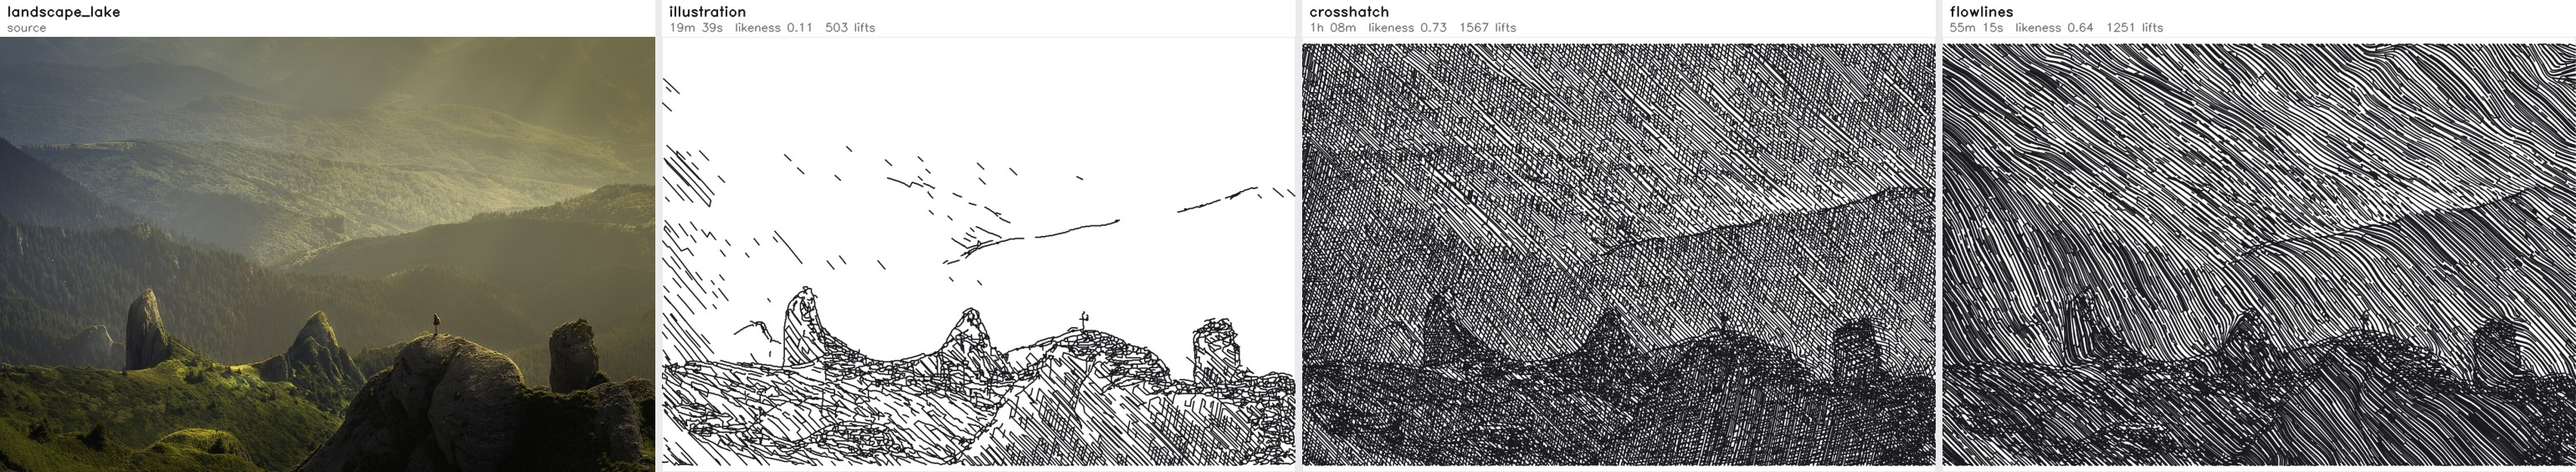
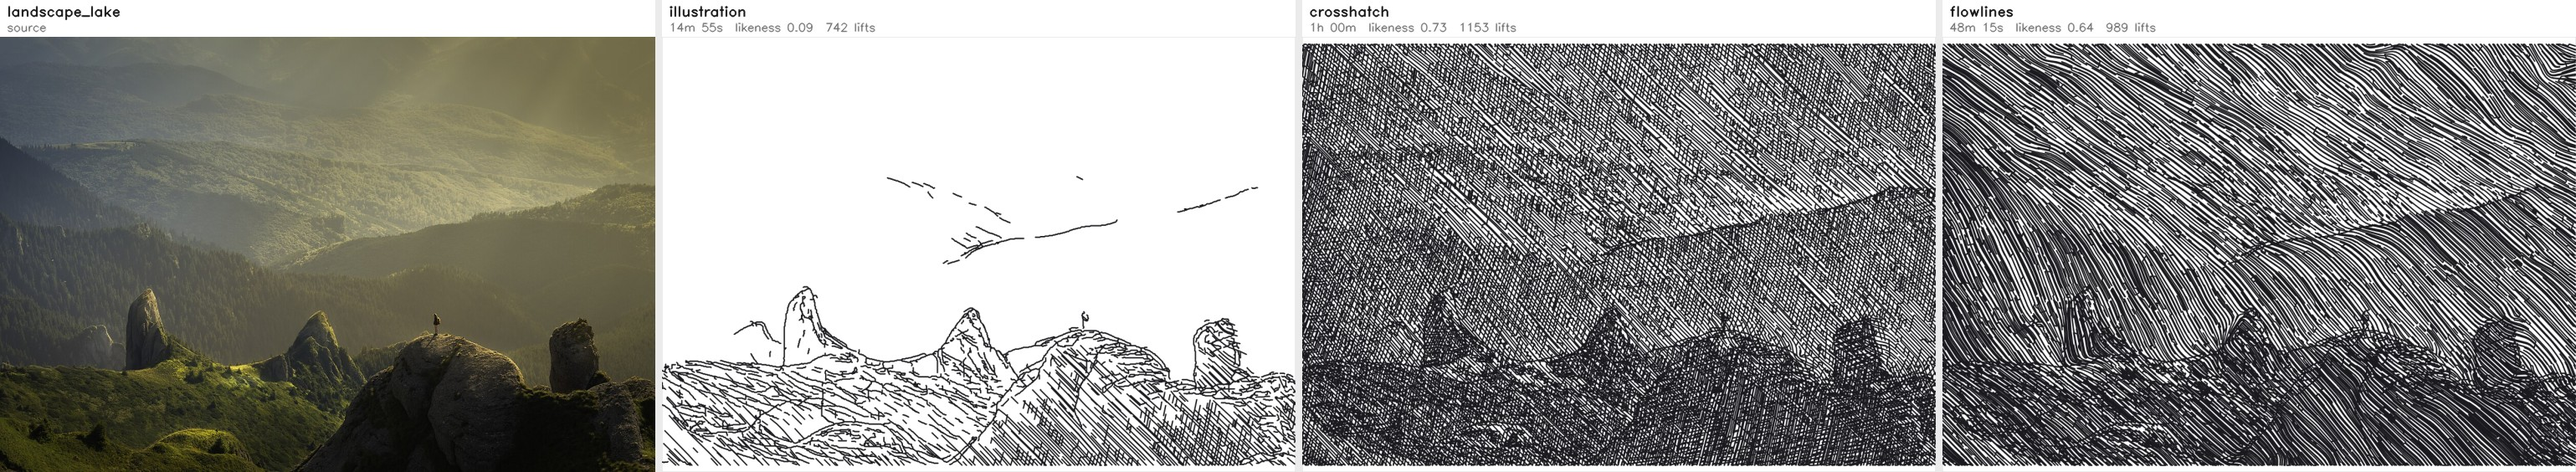
Clean up faces: bridge only over drawn ink, trace lines without loops, focus on the subject
- Pen-down bridges were judged against the photo's tone, but illustration
  hatches only shadows, so bridges over mid-tones drew zigzags across faces.
  They are now judged against the ink actually drawn.
- Pinholes in the line network's thick marks are filled before thinning
  (no more bead-chain eyelids), and the line threshold rises where marks
  crowd into solid patches (beard strands instead of a honeycomb).
- Subject focus defaults to 0.85: with Depth Anything the subject mask is
  sharp, and background hatching no longer buries a close-up face.

diff --git a/plotter/engines/outline.py b/plotter/engines/outline.py
@@ -13,6 +13,12 @@ from __future__ import annotations
 import cv2
 import numpy as np
 
+#: Gaps inside a stroke smaller than this (mm^2 on paper) are filled before
+#: thinning; the pen is 0.4 mm, so nothing this small can be drawn as a gap.
+HOLE_MM2 = 0.5
+#: How far the line threshold rises where marks crowd into a solid patch.
+CROWD_GAIN = 0.4
+
 # 8-neighbourhood, ordered so opposite directions are 4 apart.
 _NEIGHBOURS = ((-1, -1), (-1, 0), (-1, 1), (0, 1),
                (1, 1), (1, 0), (1, -1), (0, -1))
@@ -52,6 +58,23 @@ def skeleton(mask: np.ndarray) -> np.ndarray:
         if not changed:
             break
     return img
+
+
+def fill_holes(mask: np.ndarray, max_area: float) -> np.ndarray:
+    """Close pinholes in a stroke mask before thinning.
+
+    A thick stroke from the line network is rarely solid once thresholded:
+    a few pixels inside it fall just under the cut.  Thinning wraps around
+    every such pinhole, so the centreline comes out as a chain of tiny loops
+    - beads along every eyelid - and dense marks like a beard become a mesh.
+    """
+    inv = (mask == 0).astype(np.uint8)
+    n, labels, stats, _ = cv2.connectedComponentsWithStats(inv, connectivity=4)
+    small = stats[:, cv2.CC_STAT_AREA] <= max_area
+    small[0] = False if stats[0, cv2.CC_STAT_AREA] > max_area else small[0]
+    out = mask.copy()
+    out[small[labels] & (inv > 0)] = 255
+    return out
 
 
 def trace(skel: np.ndarray, min_px: int = 6) -> list[np.ndarray]:
@@ -158,7 +181,14 @@ def generate(value, coverage, canvas, pen, cfg, strength: float | None = None,
             np.dstack([value] * 3) * 255).astype(np.uint8)
         dark = learned_lines.draw(rgb, (value.shape[1], value.shape[0]),
                                   style=getattr(cfg, "line_style", "contour"))
-        mask = dark > (0.62 - 0.42 * s)
+        cut = 0.62 - 0.42 * s
+        # Where the network's marks crowd together - a beard, curls, dense
+        # shadow - the thresholded mask turns solid, and the centreline of a
+        # solid patch is a honeycomb, not hair.  Raising the cut there keeps
+        # only the strongest strands; the shading layer carries the tone.
+        crowd = cv2.GaussianBlur((dark > cut).astype(np.float32), (0, 0),
+                                 max(1.0, 1.5 * px_per_mm))
+        mask = dark > cut + CROWD_GAIN * np.clip((crowd - 0.3) / 0.4, 0.0, 1.0)
         weight = dark
         edges = (mask.astype(np.uint8) * 255)
         k = 1.0
@@ -201,6 +231,7 @@ def generate(value, coverage, canvas, pen, cfg, strength: float | None = None,
         # No drawn darkness to go on; how dark the photo is under the line
         # is the nearest stand-in.
         weight = 1.0 - value
+    edges = fill_holes(edges, HOLE_MM2 * (px_per_mm / k) ** 2)
     skel = skeleton(edges)
     paths = trace(skel, min_px=4)
 

diff --git a/plotter/pipeline.py b/plotter/pipeline.py
@@ -5,6 +5,7 @@ from __future__ import annotations
 import time
 from dataclasses import dataclass, field as dc_field, replace
 
+import cv2
 import numpy as np
 
 from . import budget
@@ -133,10 +134,9 @@ def convert(img_rgb: np.ndarray, cfg: Config, progress=None) -> Result:
     scores = [scores[i] for i in keep]
     raw_count = len(mm_paths)
     raw_travel = P.travel_length(mm_paths)   # unordered, unwelded
-    sampler = _ink_sampler(coverage, canvas)
     mm_paths, cut = budget.select(
         mm_paths, scores, cfg,
-        finish=lambda ps: _optimise(ps, cfg, note, sampler),
+        finish=lambda ps: _optimise(ps, cfg, note, _drawn_sampler(ps, canvas, cfg)),
         minutes=cfg.paths.time_limit_min,
         prune_below=cfg.paths.prune_below if ranked else 0.0, note=note)
 
@@ -268,8 +268,28 @@ def draw_procedural(kind: str, seed: int | None = None, cfg: Config | None = Non
                   value=blank, coverage=1.0 - blank, stats=stats)
 
 
+def _drawn_sampler(mm_paths, canvas: Canvas, cfg: Config):
+    """How dark the drawing itself is at machine-millimetre points, for bridging.
+
+    A pen-down bridge is only hidden where the strokes around it are dense.
+    Asking the photo's tone target instead is wrong whenever an engine draws
+    less than the target - illustration hatches only the shadows - and there
+    every bridge over a mid-tone lands on bare paper as a visible zigzag.
+    """
+    if cfg.paths.bridge_max_mm <= 0 or not mm_paths:
+        return None
+    drawn, px_per_mm = quality.render(mm_paths, canvas, cfg.pen.width_mm)
+    drawn = cv2.resize(quality.viewed(drawn, px_per_mm, BRIDGE_SIGMA_MM),
+                       (canvas.w_px, canvas.h_px), interpolation=cv2.INTER_AREA)
+    return _ink_sampler(drawn, canvas)
+
+
+#: Neighbourhood a bridge is judged over: about two hatch spacings in shadow.
+BRIDGE_SIGMA_MM = 0.6
+
+
 def _ink_sampler(coverage: np.ndarray, canvas: Canvas):
-    """Sample the ink target at machine-millimetre points, for bridging."""
+    """Sample a coverage map at machine-millimetre points, for bridging."""
     h, w = coverage.shape
 
     def sample(pts_mm: np.ndarray) -> np.ndarray:

diff --git a/app.py b/app.py
@@ -88,7 +88,7 @@ def config_from_form() -> Config:
     cfg.render.line_style = request.form.get("line_style", "sketch")
     cfg.render.illustration_shading = request.form.get("illustration_shading", "crosshatch")
     cfg.render.illustration_shadow = _f("illustration_shadow", 0.40)
-    cfg.render.illustration_focus = _f("illustration_focus", 0.40)
+    cfg.render.illustration_focus = _f("illustration_focus", 0.85)
     cfg.render.illustration_tone = _f("illustration_tone", 0.75)
     cfg.render.contour_levels = _i("levels", 12)
     cfg.render.tsp_points = _i("points", 12000)
@@ -615,8 +615,8 @@ HTML = r"""
         <div class="ctl" data-for="illustration">
           <label><span>Subject focus
             <span class="tip" title="Uses depth to fade shading on the background so detail goes to the subject. Turn down for landscapes, where everything is far.">i</span></span>
-            <span class="v" id="illustration_focusV">0.40</span></label>
-          <input type="range" id="illustration_focus" min="0" max="1" step="0.05" value="0.40">
+            <span class="v" id="illustration_focusV">0.85</span></label>
+          <input type="range" id="illustration_focus" min="0" max="1" step="0.05" value="0.85">
         </div>
         <div class="ctl" data-for="illustration">
           <label>Shading strength <span class="v" id="illustration_toneV">0.75</span></label>

diff --git a/image_to_gcode.py b/image_to_gcode.py
@@ -73,7 +73,7 @@ def build_parser() -> argparse.ArgumentParser:
                    help="illustration: tone engine under the lines, or 'none'")
     g.add_argument("--shadow", type=float, default=0.40, metavar="F",
                    help="illustration: hatch only tones darker than this")
-    g.add_argument("--focus", type=float, default=0.40, metavar="F",
+    g.add_argument("--focus", type=float, default=0.85, metavar="F",
                    help="illustration: fade shading on the background using depth")
     g.add_argument("--hatch-share", type=float, default=0.30, metavar="F",
                    help="crosshatch: coverage one direction may supply "

diff --git a/plotter/config.py b/plotter/config.py
@@ -198,7 +198,7 @@ class RenderConfig:
     illustration_shadow: float = 0.40
     #: 0 = shade the whole frame evenly, 1 = shade only what depth says is
     #: near.  Needs torch; ignored without it.
-    illustration_focus: float = 0.4
+    illustration_focus: float = 0.85
     #: Shadow-side band on each outlined shape (fishdraw's crescent shading).
     illustration_rim: float = 0.45     # 0 disables; needs torch (depth)
     illustration_rim_mm: float = 6.0   # band width on paper

diff --git a/docs/evaluation/README.md b/docs/evaluation/README.md
@@ -48,21 +48,21 @@ wrong because they were tuned on a single picture.
 
 | photo | engine | plot time | likeness | tone error | lifts | drawn m | compute s |
 |---|---|---|---|---|---|---|---|
-| car_grille | illustration | 25m 04s | 0.233 | 0.399 | 886 | 23.3 | 6.0 |
-| car_grille | crosshatch | 1h 17m | 0.715 | 0.079 | 1906 | 93.2 | 5.1 |
-| car_grille | flowlines | 57m 52s | 0.665 | 0.088 | 1302 | 94.2 | 3.6 |
-| cat_tabby | illustration | 20m 14s | 0.102 | 0.194 | 463 | 13.9 | 2.5 |
-| cat_tabby | crosshatch | 1h 00m | 0.679 | 0.059 | 2561 | 53.0 | 3.3 |
-| cat_tabby | flowlines | 57m 56s | 0.653 | 0.061 | 2521 | 53.0 | 3.2 |
-| dog_ottawa | illustration | 19m 11s | 0.136 | 0.381 | 495 | 14.8 | 2.4 |
-| dog_ottawa | crosshatch | 59m 23s | 0.740 | 0.075 | 1324 | 75.1 | 3.8 |
-| dog_ottawa | flowlines | 53m 52s | 0.680 | 0.079 | 1285 | 75.6 | 3.6 |
-| landscape_lake | illustration | 19m 39s | 0.109 | 0.464 | 503 | 15.5 | 2.9 |
-| landscape_lake | crosshatch | 1h 08m | 0.731 | 0.089 | 1567 | 86.4 | 4.3 |
-| landscape_lake | flowlines | 55m 15s | 0.644 | 0.104 | 1251 | 81.8 | 3.6 |
-| portrait_beard | illustration | 14m 44s | 0.261 | 0.321 | 373 | 10.8 | 2.2 |
-| portrait_beard | crosshatch | 34m 40s | 0.804 | 0.071 | 811 | 38.9 | 2.6 |
-| portrait_beard | flowlines | 31m 56s | 0.755 | 0.074 | 819 | 38.4 | 2.5 |
-| portrait_elderly | illustration | 9m 49s | 0.227 | 0.404 | 348 | 9.1 | 1.7 |
-| portrait_elderly | crosshatch | 32m 48s | 0.799 | 0.093 | 811 | 39.7 | 2.7 |
-| portrait_elderly | flowlines | 26m 32s | 0.753 | 0.096 | 739 | 38.0 | 2.2 |
+| car_grille | illustration | 25m 59s | 0.194 | 0.423 | 1431 | 19.2 | 5.5 |
+| car_grille | crosshatch | 1h 12m | 0.706 | 0.079 | 1216 | 93.7 | 5.5 |
+| car_grille | flowlines | 55m 10s | 0.664 | 0.088 | 1024 | 93.9 | 4.2 |
+| cat_tabby | illustration | 10m 57s | 0.075 | 0.227 | 545 | 5.6 | 2.0 |
+| cat_tabby | crosshatch | 49m 00s | 0.689 | 0.052 | 2203 | 46.5 | 3.2 |
+| cat_tabby | flowlines | 46m 30s | 0.660 | 0.056 | 2140 | 46.5 | 3.1 |
+| dog_ottawa | illustration | 13m 56s | 0.101 | 0.408 | 708 | 8.5 | 2.2 |
+| dog_ottawa | crosshatch | 54m 27s | 0.740 | 0.074 | 1416 | 70.5 | 4.3 |
+| dog_ottawa | flowlines | 48m 26s | 0.679 | 0.078 | 1309 | 71.0 | 3.9 |
+| landscape_lake | illustration | 14m 55s | 0.087 | 0.491 | 742 | 9.7 | 2.2 |
+| landscape_lake | crosshatch | 1h 00m | 0.734 | 0.086 | 1153 | 82.9 | 4.6 |
+| landscape_lake | flowlines | 48m 15s | 0.645 | 0.102 | 989 | 78.0 | 3.7 |
+| portrait_beard | illustration | 13m 06s | 0.238 | 0.344 | 625 | 8.1 | 2.1 |
+| portrait_beard | crosshatch | 30m 27s | 0.804 | 0.070 | 615 | 37.1 | 2.6 |
+| portrait_beard | flowlines | 27m 56s | 0.754 | 0.073 | 673 | 36.5 | 2.5 |
+| portrait_elderly | illustration | 7m 09s | 0.126 | 0.458 | 382 | 5.0 | 1.5 |
+| portrait_elderly | crosshatch | 31m 11s | 0.798 | 0.093 | 651 | 39.5 | 2.8 |
+| portrait_elderly | flowlines | 25m 04s | 0.751 | 0.095 | 610 | 37.8 | 2.3 |

diff --git a/docs/algorithms.md b/docs/algorithms.md
@@ -198,8 +198,12 @@ separate, lighter shading layer the way pen-and-ink work is built:
 
 - hatching only where tone is darker than `--shadow`; the paper carries the
   light and mid tones instead of every region getting strokes;
-- shading faded on the background using depth (`--focus`), so detail
-  goes to the subject rather than to blurred grass behind it;
+- shading faded on the background using depth (`--focus`, default 0.85), so
+  detail goes to the subject rather than to blurred grass or a night sky
+  behind it. The default was 0.4 while depth came from MiDaS, whose blurry
+  subject mask made a strong fade risky; with Depth Anything the subject's
+  edge is sharp, and on a close-up portrait against a dark background 0.4
+  still let the background hatching bury the face;
 - no shading on the line pixels themselves, so layers don't double-ink;
 - a shadow band on the side of the subject facing away from a virtual light
   (`illustration_rim`, `illustration_light_deg`), after LingDong's
@@ -209,6 +213,18 @@ separate, lighter shading layer the way pen-and-ink work is built:
 - hatch strokes start at a random point up to half their length in from the
   lit end (`illustration_fade`), so shading thins out instead of stopping
   on a hard edge - also from fishdraw.
+
+Turning the network's drawing into strokes needs care. Its marks are soft
+and thick, and thresholding leaves pinholes inside them; thinning wraps
+around each pinhole, so an eyelid came back as a chain of tiny loops. Holes
+under 0.5 mm² are filled first. Where marks crowd into a solid patch (a
+beard, curls) the centreline of the patch is a honeycomb, so the threshold
+rises with local mark density and only the strongest strands become lines.
+
+Pen-down bridging (see *Pen lifts*) judges a gap by the ink actually drawn
+around it, not by the photo's tone. This engine hatches only shadows, so
+the photo said "dark" over forehead and cheek mid-tones while the paper there
+was nearly blank, and every bridge showed as a zigzag across the face.
 
 The network runs in about 0.2 s on Metal; weights (MIT) download from the
 authors' Hugging Face Space on first use. The same learned lines are now the
